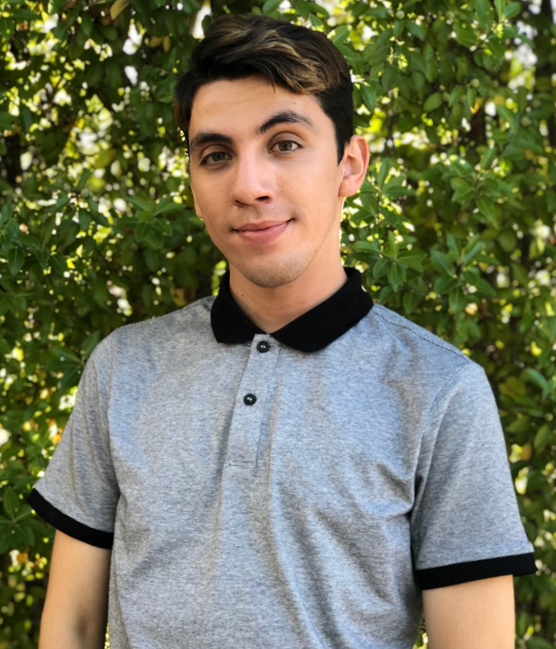
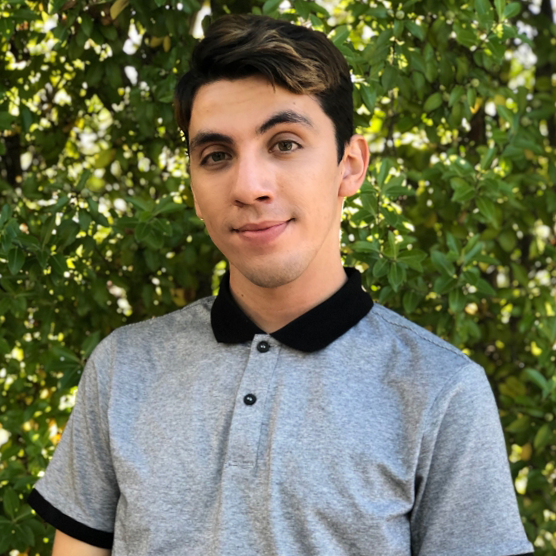
made adjustments to html/css in attempts to fix proper cross-resolution display. added socials component, still WIP.

diff --git a/src/components/Photography.vue b/src/components/Photography.vue
@@ -1,18 +1,39 @@
 <template>
-  <div class="display">
-      <img id="img1" src="@/assets/imgs/bird.jpg"><span class="copyright">© 2012 David Serrano All Rights Reserved</span>
-      <img v-scrollanimation id="img1" src="@/assets/imgs/lavender.jpg"><span class="copyright">© 2012 David Serrano All Rights Reserved</span>
-      <img v-scrollanimation id="img1" src="@/assets/imgs/fish.jpg"><span class="copyright">© 2012 David Serrano All Rights Reserved</span>
-      <img v-scrollanimation id="img1" src="@/assets/imgs/FLY.png"><span class="copyright">© 2012 David Serrano All Rights Reserved</span>
-    </div>
+  <div id="photographyDisplay">
+    <horizontal-scroll>
+
+      <div class="slide">
+        <img class="img" src="@/assets/imgs/bird.jpg">
+        <p class="copyright">© 2012 David Serrano All Rights Reserved</p>
+      </div>
+
+      <div class="slide">
+        <img v-scrollanimation class="img" src="@/assets/imgs/lavender.jpg">
+        <p class="copyright">© 2012 David Serrano All Rights Reserved</p>
+      </div>
+      
+      <div class="slide">
+        <img v-scrollanimation class="img" src="@/assets/imgs/fish.jpg">
+        <p class="copyright">© 2012 David Serrano All Rights Reserved</p>
+      </div>
+
+       <div class="slide">
+        <img v-scrollanimation class="img" src="@/assets/imgs/FLY.png">
+        <p class="copyright">© 2012 David Serrano All Rights Reserved</p>
+      </div>
+
+    </horizontal-scroll>
+  </div>
 </template>
 
 <script>
+  import HorizontalScroll from 'vue-horizontal-scroll'
+  import 'vue-horizontal-scroll/dist/vue-horizontal-scroll.css'
     export default {
         name: 'Photography',
         props: ['options', 'option'],
         components: {
-   
+          HorizontalScroll
       },
         data() {
            return {
@@ -29,24 +50,38 @@
 
 <!-- Add "scoped" attribute to limit CSS to this component only -->
 <style scoped>
-    .display{
-        display: flex;
-        flex-direction: row;
-        overflow: scroll;
-        width: inherit;
-        height: inherit;
-        flex-basis: fit-content;
+    #photographyDisplay{
+      width: 98.9%;
+      height: 90vh;
+      background: pink;
+      position: fixed;
+    }
+
+    .slide{
+      position: relative;
+      display: table-cell;
+      background: orange;
+      max-width: 95%;
+      padding: 0px 15px 0px 0px;
+      height: auto;
+    
+    }
+
+    .img{
+      max-width: 100%;
+      height: 200px!important;
      
+    }
+
+    .copyright{
+      font-family: Times New Roman;
+      color: #353535;
+      font-size: 11px;
+      display: block;
     }
 
     .display::-webkit-scrollbar{
         display: none;
-    }
-
-    #img1{
-        width: auto;
-        height: 65%;
-        padding: 0px 3px 0px 15px;
     }
 
     .before-enter{
@@ -59,12 +94,4 @@
         opacity: 1;
         transform: translateX(0px);
     }
-
-    .copyright{
-      font-family: Times New Roman;
-      color: #353535;
-      font-size: 11px;
-      overflow: visible;
-    }
-
 </style>

diff --git a/src/components/Display.vue b/src/components/Display.vue
@@ -1,6 +1,5 @@
 <template>
   <div class="layout">
-
     <div id="menu"><Menu v-bind:options="options" @option-clicked="clicked.option = $event.name" /></div>
     <div id="feed"><Feed :option = "clicked.option"/></div>
 
@@ -34,21 +33,23 @@
 <style scoped>
     .layout{
         display: flex;
+        flex-direction: row;
         height: inherit;
-        width: inherit;
+        position: fixed;
+        width: 98.8%;
     }
     
     #menu{
-        width: 115px;
         margin-top: 10px;
-        margin-left: 17px;
+        margin-left: 1.5%; 
+        position: relative;
     } 
     
     #feed{
+        position: relative;
         width: 100%;
-        padding: 0px 0px 0px 0px;
-      
     }
+
 
     
 </style>

diff --git a/src/components/Header.vue b/src/components/Header.vue
@@ -2,7 +2,6 @@
   <div>
     <div id="nav">
         <span id="name"><router-link to="/">David Serrano</router-link></span>
-
         <span class="link"><router-link to="/">Home</router-link></span>
         <span class="link"><router-link to="/about">Resume</router-link></span>
         <span class="link"><router-link to="/projects">Projects</router-link></span>
@@ -25,14 +24,13 @@ export default {
 
 <style>
     #name{
-        font-family: Didot;
         color: #353535;
-        font-weight: 100;
         font-size: 40px;
         padding: 0px 25px 0px 20px; 
     }
 
     #name a {
+        font-family: Times New Roman;
         color: #353535;
         text-decoration: none;
     } 

diff --git a/src/components/Feed.vue b/src/components/Feed.vue
@@ -1,6 +1,7 @@
 <template>
   <div>
       <div class="display">
+
             <div v-if="option === 'Photography'" id="photography"><Photography/></div>
             <div v-if="option === 'Pokemon'" id="Pokemon"><Pokemon/></div>
             <div v-if="option === 'Art'"><Art/></div>
@@ -21,6 +22,7 @@
             Art,
         },
         props: ['option']
+
     }
 </script>
 
@@ -28,9 +30,10 @@
 <!-- Add "scoped" attribute to limit CSS to this component only -->
 <style scoped>
     .display{
-        height: 90vh;
-        margin-left: .5%; 
-        margin-top: 1.45%;
+        width: inherit;
+        margin-left: 1%; 
+        margin-top: 1.8%;
+        
     }
 
 

diff --git a/src/views/Home.vue b/src/views/Home.vue
@@ -1,6 +1,9 @@
 <template>
   <div class="home">
-     <img id="img1" src="@/assets/imgs/test.png">
+     <img id="img1" src="@/assets/imgs/me.png">
+     <footer>
+        <p>Copyright © 2021 David Serrano. All rights reserved.</p>
+    </footer>
   </div>
 </template>
 
@@ -13,12 +16,15 @@ export default {
 </script>
 
 <style scoped>
+	.home{
+		position: fixed;
+		height: 93%;
+		width: 98.9%;
+	}
 	#img1{
-		opacity: 0.95;
-		margin-top: 1px;
-		margin-left: -70vh;
-		height: 100vmax;
-		overflow: hidden;;
+		position: relative;
+		border-radius: 500px;
+		border: 
 	}
 
 

diff --git a/src/views/Contact.vue b/src/views/Contact.vue
@@ -1,22 +1,27 @@
 <template>
-  <div>
+  <div id="contactDisplay">
       <Form/>
+      <Socials/>
   </div>
 </template>
 
 <script>
     import Form from '@/components/Form';
+    import Socials from '@/components/Socials';
     
     export default {
         name: 'Contact',
         components: {
-            Form
+            Form,
+            Socials
         }
     }
 </script>
 
 <!-- Add "scoped" attribute to limit CSS to this component only -->
 <style scoped>
-    
-    
+    #contactDisplay{
+      position: fixed;
+      width: 98.9%;
+    }
 </style>

diff --git a/src/App.vue b/src/App.vue
@@ -1,10 +1,6 @@
 <template>
   <div id="app">
       <Header/>
-      <footer>
-  <p>Copyright © 2019 David Serrano. All rights reserved.</p>
-  
-</footer>
   </div>
 </template>
 
@@ -27,7 +23,6 @@ export default {
       -moz-osx-font-smoothing: grayscale;
       text-align: left;
       color: #353535;
-      height: 1000px;
     }
     /*og bg: #BDBBB0*/
     body{
@@ -36,8 +31,8 @@ export default {
     }
 
     footer{
-      font-family: Times New Roman;
       font-size: 12px;
+
     }
 
 </style>

diff --git a/src/components/Socials.vue b/src/components/Socials.vue
@@ -1,0 +1,26 @@
+<template>
+  <div id="socialsDisplay">
+		<img id="icon" src="@/assets/imgs/linkedin.png">
+		<img id="icon" src="@/assets/imgs/email.png">
+  </div>
+</template>
+
+<script>
+    
+    export default {
+        name: 'Socials',
+        components: {
+        }
+    }
+</script>
+
+<!-- Add "scoped" attribute to limit CSS to this component only -->
+<style scoped>
+	#socialsDisplay{
+		display: flex;
+		flex-direction: row;
+		background: pink;
+		position: relative;
+	}
+    
+</style>

diff --git a/src/components/Menu.vue b/src/components/Menu.vue
@@ -36,10 +36,11 @@
 <style scoped>
     #list{
         color: #353535;
-        width: inherit;
+        width: 150px;
         height: 150px;
         border-right: 1px #353535 solid;
         margin-top: 13px;
+
     }
     
     button{

diff --git a/src/components/Form.vue b/src/components/Form.vue
@@ -58,6 +58,7 @@ export default {
         border-radius: 10px;
         padding: 0px 20px 10px 20px;
         margin-top: 5%;
+        position: relative;
     }
     
     input{
